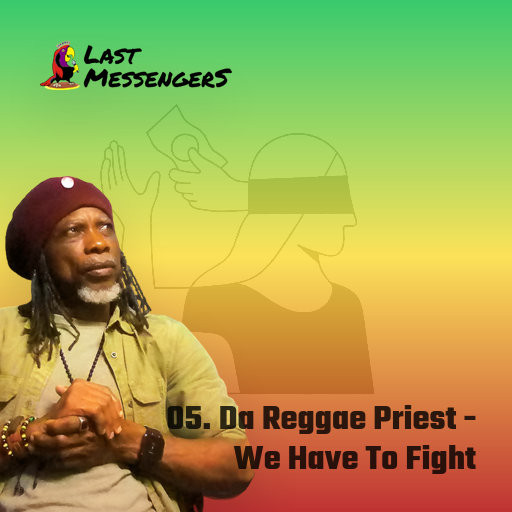
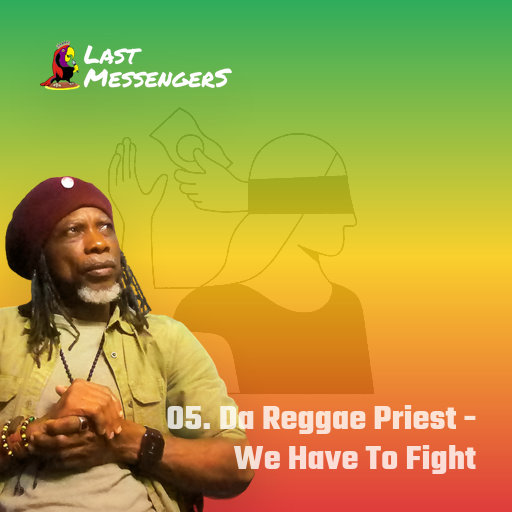
have to fight

diff --git a/src/lib/components/Nav.svelte b/src/lib/components/Nav.svelte
@@ -13,7 +13,7 @@
 <div class="toggle-menu-backdrop absolute top-0 left-0 w-full h-full { $player.track.theme == 'light' ? 'bg-white/50' : 'bg-black/50'} backdrop-brightness-20 hidden-desktop flex-touch" on:click={toggleMenu} transition:fade></div>
 
 
-<button class="font-mono absolute top-4 right-6 font-bold text-white text-2xl" data-modalid="#search-modal" aria-label="close" on:click={toggleMenu}>x</button>
+<button class="font-mono absolute top-4 right-6 font-bold {$player.track.theme == 'white' ? 'text-white' : 'text-black'} text-2xl z-50" data-modalid="#search-modal" aria-label="close" on:click={toggleMenu}>x</button>
 {/if}
 
 

diff --git a/src/lib/md-collections/media/we-have-to-fight.md b/src/lib/md-collections/media/we-have-to-fight.md
@@ -2,14 +2,14 @@
 media_file: https://res.cloudinary.com/artkids-foundation/video/upload/v1664797977/05._Da_Reggae_Priest_-_We_Have_To_Fight_ynd367.mp3
 image: /uploads/albumcovers/da-reggae-priest-we-have-to-fight.jpg
 align_image: left
-theme: light
+theme: dark
 bg: paid-blind
-bg_color: bg-gradient-to-b from-green-500 via-yellow-300 to-red-700
+bg_color: bg-gradient-to-b from-green-600 via-yellow-400 to-red-600
 bg_blend: bg-blend-darken
 bg_size: bg-cover
 bg_position: bg-right
 bg_opacity: opacity-10
-color: text-black/80
+color: text-white/80
 title: We Have To Fight
 artist: Da Reggae Priest
 producer:
